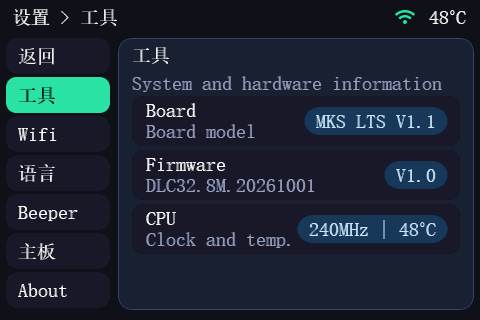
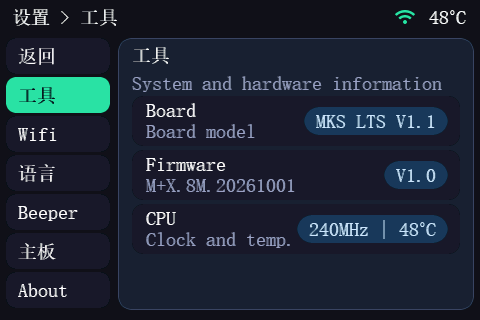
Nombre oficial del firmware: M+X
- LCD: «Acerca de» muestra M+X; FW_NAME pasa a V1.0(M+X.8M.20261001).
- WebUI: título, marca de la cabecera y del pie, «Acerca de» y su descripción (español, inglés y
  chino) dicen M+X; webui/README.md y el verificador de traducciones actualizados.
- README: título M+X y créditos; «MKS DLC32» queda solo para la placa y para el firmware original.
- Herramientas: placa falsa de las capturas con hostname neutro y $28; el script de captura espera
  a que termine la sonda de arranque antes de abrir la vista (capturas de Parámetros incompletas).
- Capturas del LCD y de la WebUI regeneradas con el nombre nuevo.

Changed region(s): [[0.2812, 0.5625, 0.6562, 0.625]]

diff --git a/webui/index.html b/webui/index.html
@@ -3,7 +3,7 @@
 <head>
 <meta charset="utf-8">
 <meta name="viewport" content="width=device-width, initial-scale=1">
-<title>MKS DLC32 - ESP32-WEB</title>
+<title>M+X - ESP32-WEB</title>
 <link rel="stylesheet" href="css/style.css">
 </head>
 <body>
@@ -15,7 +15,7 @@
     </button>
     <span class="logo icon-logo"><svg viewBox="0 0 24 24" fill="none" stroke="currentColor" stroke-width="2" stroke-linecap="round" stroke-linejoin="round"><circle cx="12" cy="12" r="4"></circle><line x1="12" y1="2" x2="12" y2="6"></line><line x1="12" y1="18" x2="12" y2="22"></line><line x1="2" y1="12" x2="6" y2="12"></line><line x1="18" y1="12" x2="22" y2="12"></line></svg></span>
     <div class="brand-text">
-      <div class="brand-name">MKS DLC32</div>
+      <div class="brand-name">M+X</div>
     </div>
   </div>
   <div class="topbar-title">
@@ -52,7 +52,7 @@
     <div class="sidebar-footer">
       <span class="logo-sm icon-logo"><svg viewBox="0 0 24 24" fill="none" stroke="currentColor" stroke-width="2" stroke-linecap="round" stroke-linejoin="round"><circle cx="12" cy="12" r="4"></circle><line x1="12" y1="2" x2="12" y2="6"></line><line x1="12" y1="18" x2="12" y2="22"></line><line x1="2" y1="12" x2="6" y2="12"></line><line x1="18" y1="12" x2="22" y2="12"></line></svg></span>
       <div class="sidebar-footer-text">
-        <div>MKS DLC32</div>
+        <div>M+X</div>
         <small>Firmware abierto</small>
       </div>
     </div>
@@ -397,8 +397,8 @@
           <div class="about-hero">
             <span class="logo icon-logo"><svg viewBox="0 0 24 24" fill="none" stroke="currentColor" stroke-width="2" stroke-linecap="round" stroke-linejoin="round"><circle cx="12" cy="12" r="4"></circle><line x1="12" y1="2" x2="12" y2="6"></line><line x1="12" y1="18" x2="12" y2="22"></line><line x1="2" y1="12" x2="6" y2="12"></line><line x1="18" y1="12" x2="22" y2="12"></line></svg></span>
             <div>
-              <div class="about-title">MKS DLC32 Firmware</div>
-              <p class="about-desc">Firmware Grbl_ESP32 para la controladora MKS DLC32, con interfaz web integrada y pantalla táctil. Pensado para láser y CNC de uso general.</p>
+              <div class="about-title">M+X</div>
+              <p class="about-desc">M+X es un firmware Grbl_ESP32 para controladoras MKS DLC32 y compatibles, con interfaz web integrada y pantalla táctil. Pensado para láser y CNC de uso general.</p>
             </div>
           </div>
           <div class="settings-validation-row"><span>Firmware</span><span class="sd-badge" id="about-fw">--</span></div>
@@ -536,7 +536,7 @@
   </div>
   <span class="status-right">
     <span id="footer-fw-version" class="footer-fw-plain">FW --</span>
-    <a href="https://github.com/charlymigenes-ux/MKS-DLC32-FIRMWARE" target="_blank" rel="noopener" class="footer-link">MKS DLC32</a>
+    <a href="https://github.com/charlymigenes-ux/MKS-DLC32-FIRMWARE" target="_blank" rel="noopener" class="footer-link">M+X</a>
   </span>
 </footer>
 

diff --git a/webui/js/i18n.js b/webui/js/i18n.js
@@ -55,7 +55,7 @@ var I18N_EN = {
   "Contraer panel": "Collapse panel",
   "Expandir panel": "Expand panel",
   "ACERCA DE": "ABOUT",
-  "Firmware Grbl_ESP32 para la controladora MKS DLC32, con interfaz web integrada y pantalla táctil. Pensado para láser y CNC de uso general.": "Grbl_ESP32 firmware for the MKS DLC32 controller, with a built-in web interface and touchscreen. Designed for general-purpose laser and CNC machines.",
+  "M+X es un firmware Grbl_ESP32 para controladoras MKS DLC32 y compatibles, con interfaz web integrada y pantalla táctil. Pensado para láser y CNC de uso general.": "M+X is a Grbl_ESP32 firmware for MKS DLC32 and compatible controllers, with a built-in web interface and touchscreen. Designed for general-purpose laser and CNC machines.",
   "Destino": "Target",
   "Nombre de host": "Hostname",
   "Dirección IP": "IP address",

diff --git a/webui/js/i18n_zh.js b/webui/js/i18n_zh.js
@@ -38,7 +38,7 @@ var I18N_ZH = {
   "Contraer panel": "收起面板",
   "Expandir panel": "展开面板",
   "ACERCA DE": "关于",
-  "Firmware Grbl_ESP32 para la controladora MKS DLC32, con interfaz web integrada y pantalla táctil. Pensado para láser y CNC de uso general.": "适用于MKS DLC32控制器的Grbl_ESP32固件，内置网页界面和触摸屏。面向通用激光和CNC机器。",
+  "M+X es un firmware Grbl_ESP32 para controladoras MKS DLC32 y compatibles, con interfaz web integrada y pantalla táctil. Pensado para láser y CNC de uso general.": "M+X是适用于MKS DLC32及兼容控制器的Grbl_ESP32固件，内置网页界面和触摸屏，面向通用激光和CNC机器。",
   "Destino": "目标板",
   "Nombre de host": "主机名",
   "Dirección IP": "IP地址",

diff --git a/webui/check_i18n.js b/webui/check_i18n.js
@@ -30,7 +30,7 @@ var SKIP = new Set([
   "0-255", "0..3", "%", "% (float)", "float", "X", "Y", "MX", "MY",
   "Z+", "Z-", "F (Feed)", "S (Spindle/Light)", "MPos", "WPos",
   "$40=0", "$40=1", "$40=2", "$40=3", "→", "—", "⇩", "⌖", "▲", "▼", "✎",
-  "中文", "Deutsch", "English", "MKS DLC32", "MKS DLC32 - ESP32-WEB", "ESP32-WEB",
+  "中文", "Deutsch", "English", "MKS DLC32", "MKS DLC32 - ESP32-WEB", "M+X", "M+X - ESP32-WEB", "ESP32-WEB",
   "MKS DLC32 Firmware", "MKS DLC32 (Makerbase)", "Grbl_ESP32", "Grbl", "LVGL",
   "GNU General Public License v3",
   "Control", "Autoscroll", "OFF", "ON", "Macro 1", "Macro 2", "Macro 3",

diff --git a/tools/webui-shots/mock.py b/tools/webui-shots/mock.py
@@ -12,7 +12,7 @@ CLIENTS = set()
 LOOP = None
 MPOS = (125.4, 87.0, 0.0)
 SETTINGS = {0: "10", 1: "25", 2: "0", 3: "2", 4: "0", 5: "1", 6: "0", 10: "1", 11: "0.010", 12: "0.002", 13: "0",
-            20: "0", 21: "1", 22: "1", 23: "3", 24: "300.000", 25: "3000.000", 26: "250", 27: "2.000",
+            20: "0", 21: "1", 22: "1", 23: "3", 24: "300.000", 25: "3000.000", 26: "250", 27: "2.000", 28: "1000.000",
             30: "1000.000", 31: "0.000", 32: "1", 33: "1000.000", 34: "0.000", 35: "0.000", 36: "1000.000",
             38: "1", 39: "1", 40: "3", 100: "80.000", 101: "80.000", 102: "80.000", 110: "10000.000", 111: "10000.000",
             112: "8000.000", 120: "500.000", 121: "500.000", 122: "500.000", 130: "300.000", 131: "300.000", 132: "80.000"}
@@ -20,12 +20,12 @@ FILES = [("virgenRosas75x130.gc", "8.28 MB"), ("guadaclasica75x130.gc", "5.18 MB
          ("trescruces75x130.gc", "2.58 MB"), ("Sagrado75x130INV.gc", "2.75 MB"), ("CristoCloseUp130x75.gc", "1.27 MB"),
          ("teponiña202x270.gc", "24.54 MB"), ("efelante120x120.gc", "247.46 KB"), ("buda120x120.gc", "196.38 KB"),
          ("CirsCruz_120x120.gc", "1.43 MB"), ("logo_taller.gc", "47.10 KB"), ("prueba_linea.gc", "1.00 KB")]
-BANNER = ["Grbl 1.1h ['$' for help]", "[MSG:Using machine:MKS DLC32]", "[MSG:Start mDNS with hostname:http://mks-dlc32.local/]",
+BANNER = ["Grbl 1.1h ['$' for help]", "[MSG:Using machine:MKS DLC32]", "[MSG:Start mDNS with hostname:http://mx-laser.local/]",
           "[MSG:Connected - IP is 192.168.0.61]", "ok"]
 
 def esp800():
     return ("FW version:1.1 (20261001) # FW target:grbl-embedded  # FW HW:Direct SD  # primary sd:/sd # secondary sd:none # "
-            "authentication:no # webcommunication: Sync: 81:192.168.0.61 # hostname:mks-dlc32 # axis:3")
+            "authentication:no # webcommunication: Sync: 81:192.168.0.61 # hostname:mx-laser # axis:3")
 
 def gcode():
     # rosa polar de 7 petalos con pasos pequenos: una figura reconocible en la vista previa
@@ -72,7 +72,7 @@ INJECT_TAIL = """<script>(function(){var q=new URLSearchParams(location.search);
   if(v==='sdfile'){setTimeout(function(){var r=document.querySelector('#sd-table-body tr:nth-child(4)');if(r)r.click();
    setTimeout(function(){var p=document.getElementById('sd-preview-load-btn');if(p)p.click();},300);},500);}
  var ip=document.getElementById('pill-ip');if(ip)ip.textContent='IP 192.168.0.61';var a=document.getElementById('about-ip');if(a)a.textContent='192.168.0.61';
- },700);setTimeout(function(){var ip=document.getElementById('pill-ip');if(ip)ip.textContent='IP 192.168.0.61';var a=document.getElementById('about-ip');if(a)a.textContent='192.168.0.61';},1800);})();</script>"""
+ },1800);setTimeout(function(){var ip=document.getElementById('pill-ip');if(ip)ip.textContent='IP 192.168.0.61';var a=document.getElementById('about-ip');if(a)a.textContent='192.168.0.61';},1800);})();</script>"""
 
 class H(http.server.BaseHTTPRequestHandler):
     def log_message(self, *a): pass

diff --git a/Firmware/Grbl_Esp32/src/mks/MKS_draw_tool.cpp b/Firmware/Grbl_Esp32/src/mks/MKS_draw_tool.cpp
@@ -436,7 +436,7 @@ static void tool_build_panel(int sec) {
         if (strncmp(board, "Board:", 6) == 0) board += 6;
         tool_row(0, T("Placa", "Board"), T("Modelo de la placa", "Board model"), board, NULL, NULL);
 
-        // FW_NAME = "V1.0(DLC32.8M.20261001)": la version en la pastilla y la compilacion debajo
+        // FW_NAME = "V1.0(M+X.8M.20261001)": la version en la pastilla y la compilacion debajo
         char ver[24] = "", build[40] = "";
         const char* open = strchr(FW_NAME, '(');
         if (open != NULL) {
@@ -486,7 +486,7 @@ static void tool_build_panel(int sec) {
         tool_row(2, "ID", T("Identificador del chip", "Chip identifier"), tool_buf[2], NULL, NULL);
     }
     else {  // SEC_ABOUT
-        tool_panel_head(tool_section_title(sec), "MKS DLC32 Firmware");
+        tool_panel_head(tool_section_title(sec), "M+X");
         tool_row(0, T("Licencia", "License"), T("Software libre", "Free software"), "GPL v3", NULL, NULL);
         tool_row(1, T("Basado en", "Based on"), "Grbl_ESP32 | LVGL", "MKS", NULL, NULL);
         lv_obj_t* url = lv_label_create(tool_panel, NULL);

diff --git a/tools/lcd-sim/src/Grbl.h b/tools/lcd-sim/src/Grbl.h
@@ -10,7 +10,7 @@
 
 #define MAX_N_AXIS 3
 #define BOARD_NAME "Board:MKS LTS V1.1"
-#define FW_NAME "V1.0(DLC32.8M.20261001)"
+#define FW_NAME "V1.0(M+X.8M.20261001)"
 
 // ---- Config.h: limites de los overrides
 namespace FeedOverride { const int Default = 100, Max = 200, Min = 10, CoarseIncrement = 10, FineIncrement = 1; }

diff --git a/Firmware/Grbl_Esp32/src/Machines/i2s_out_xyz_mks_dlc32.h b/Firmware/Grbl_Esp32/src/Machines/i2s_out_xyz_mks_dlc32.h
@@ -42,7 +42,7 @@
 #    include "boards/lts_v1_1.h"
 #endif
 
-#define FW_NAME                     "V1.0(DLC32.8M.20261001)"
+#define FW_NAME                     "V1.0(M+X.8M.20261001)"
 
 
 #ifdef N_AXIS

diff --git a/README.md b/README.md
@@ -1,8 +1,10 @@
 <div align="center">
 
-# MKS DLC32 · Firmware abierto para láser y CNC
+# M+X · Firmware abierto para láser y CNC
 
 **Grbl_ESP32 con interfaz web propia y pantalla táctil rediseñada, en español, inglés y chino**
+
+<sub>Basado en el firmware de las placas MKS DLC32 de Makerbase</sub>
 
 [![Licencia GPLv3](https://img.shields.io/badge/licencia-GPLv3-2de0a7?style=for-the-badge)](LICENSE)
 [![ESP32](https://img.shields.io/badge/ESP32-Grbl__ESP32-1f2333?style=for-the-badge&logo=espressif&logoColor=2de0a7)](https://github.com/bdring/Grbl_Esp32)
@@ -403,7 +405,7 @@ En modo láser (`$32=1`) un `M3 S…` suelto no enciende mientras el modo de mov
 
 Este proyecto se apoya en el trabajo de otros:
 
-- [**MKS DLC32** (Makerbase)](https://github.com/makerbase-mks/MKS-DLC32-FIRMWARE): el firmware original en el que se basa esta versión.
+- [**MKS DLC32** (Makerbase)](https://github.com/makerbase-mks/MKS-DLC32-FIRMWARE): el firmware original en el que se basa M+X.
 - [**Grbl_ESP32**](https://github.com/bdring/Grbl_Esp32): núcleo de control de movimiento para ESP32.
 - [**Grbl**](https://github.com/gnea/grbl): intérprete de G-code y planificador originales.
 - [**LVGL**](https://lvgl.io): biblioteca gráfica de la pantalla táctil.

diff --git a/webui/README.md b/webui/README.md
@@ -1,4 +1,4 @@
-# WebUI para MKS DLC32
+# WebUI de M+X
 
 Interfaz web propia que reemplaza a la WebUI original de ESP3D en el DLC32.
 Se sirve desde SPIFFS del ESP32; el firmware la entrega comprimida.
